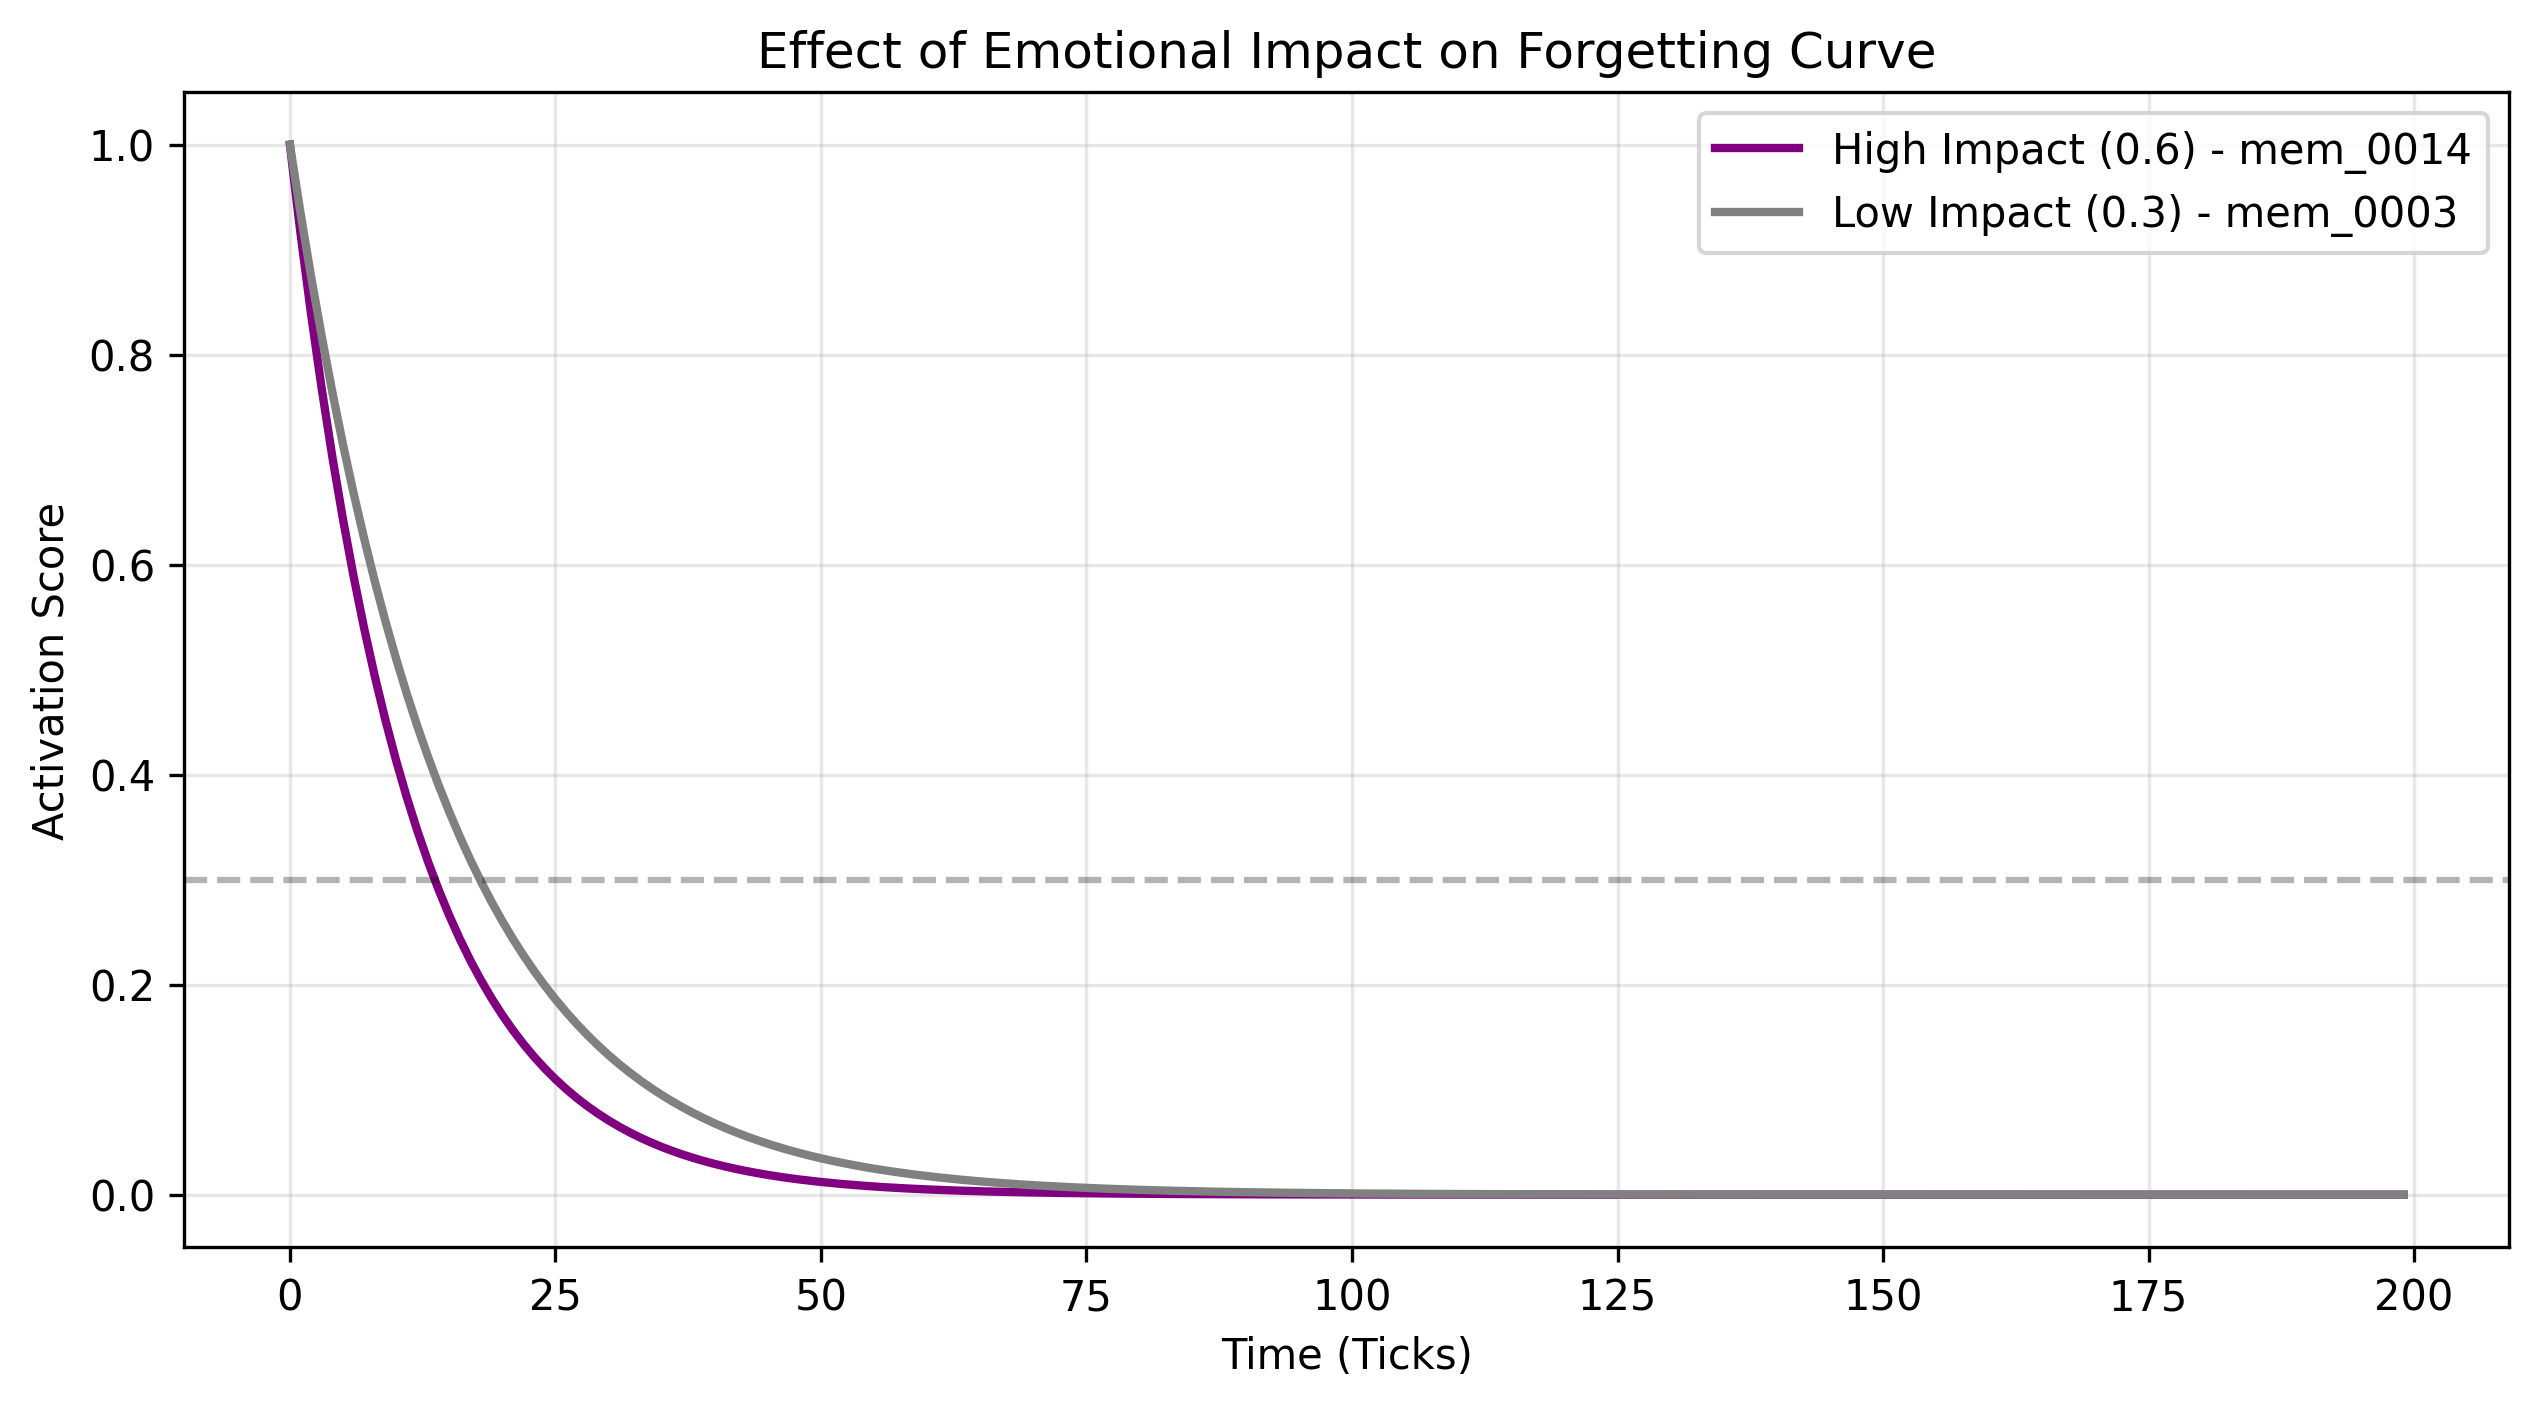
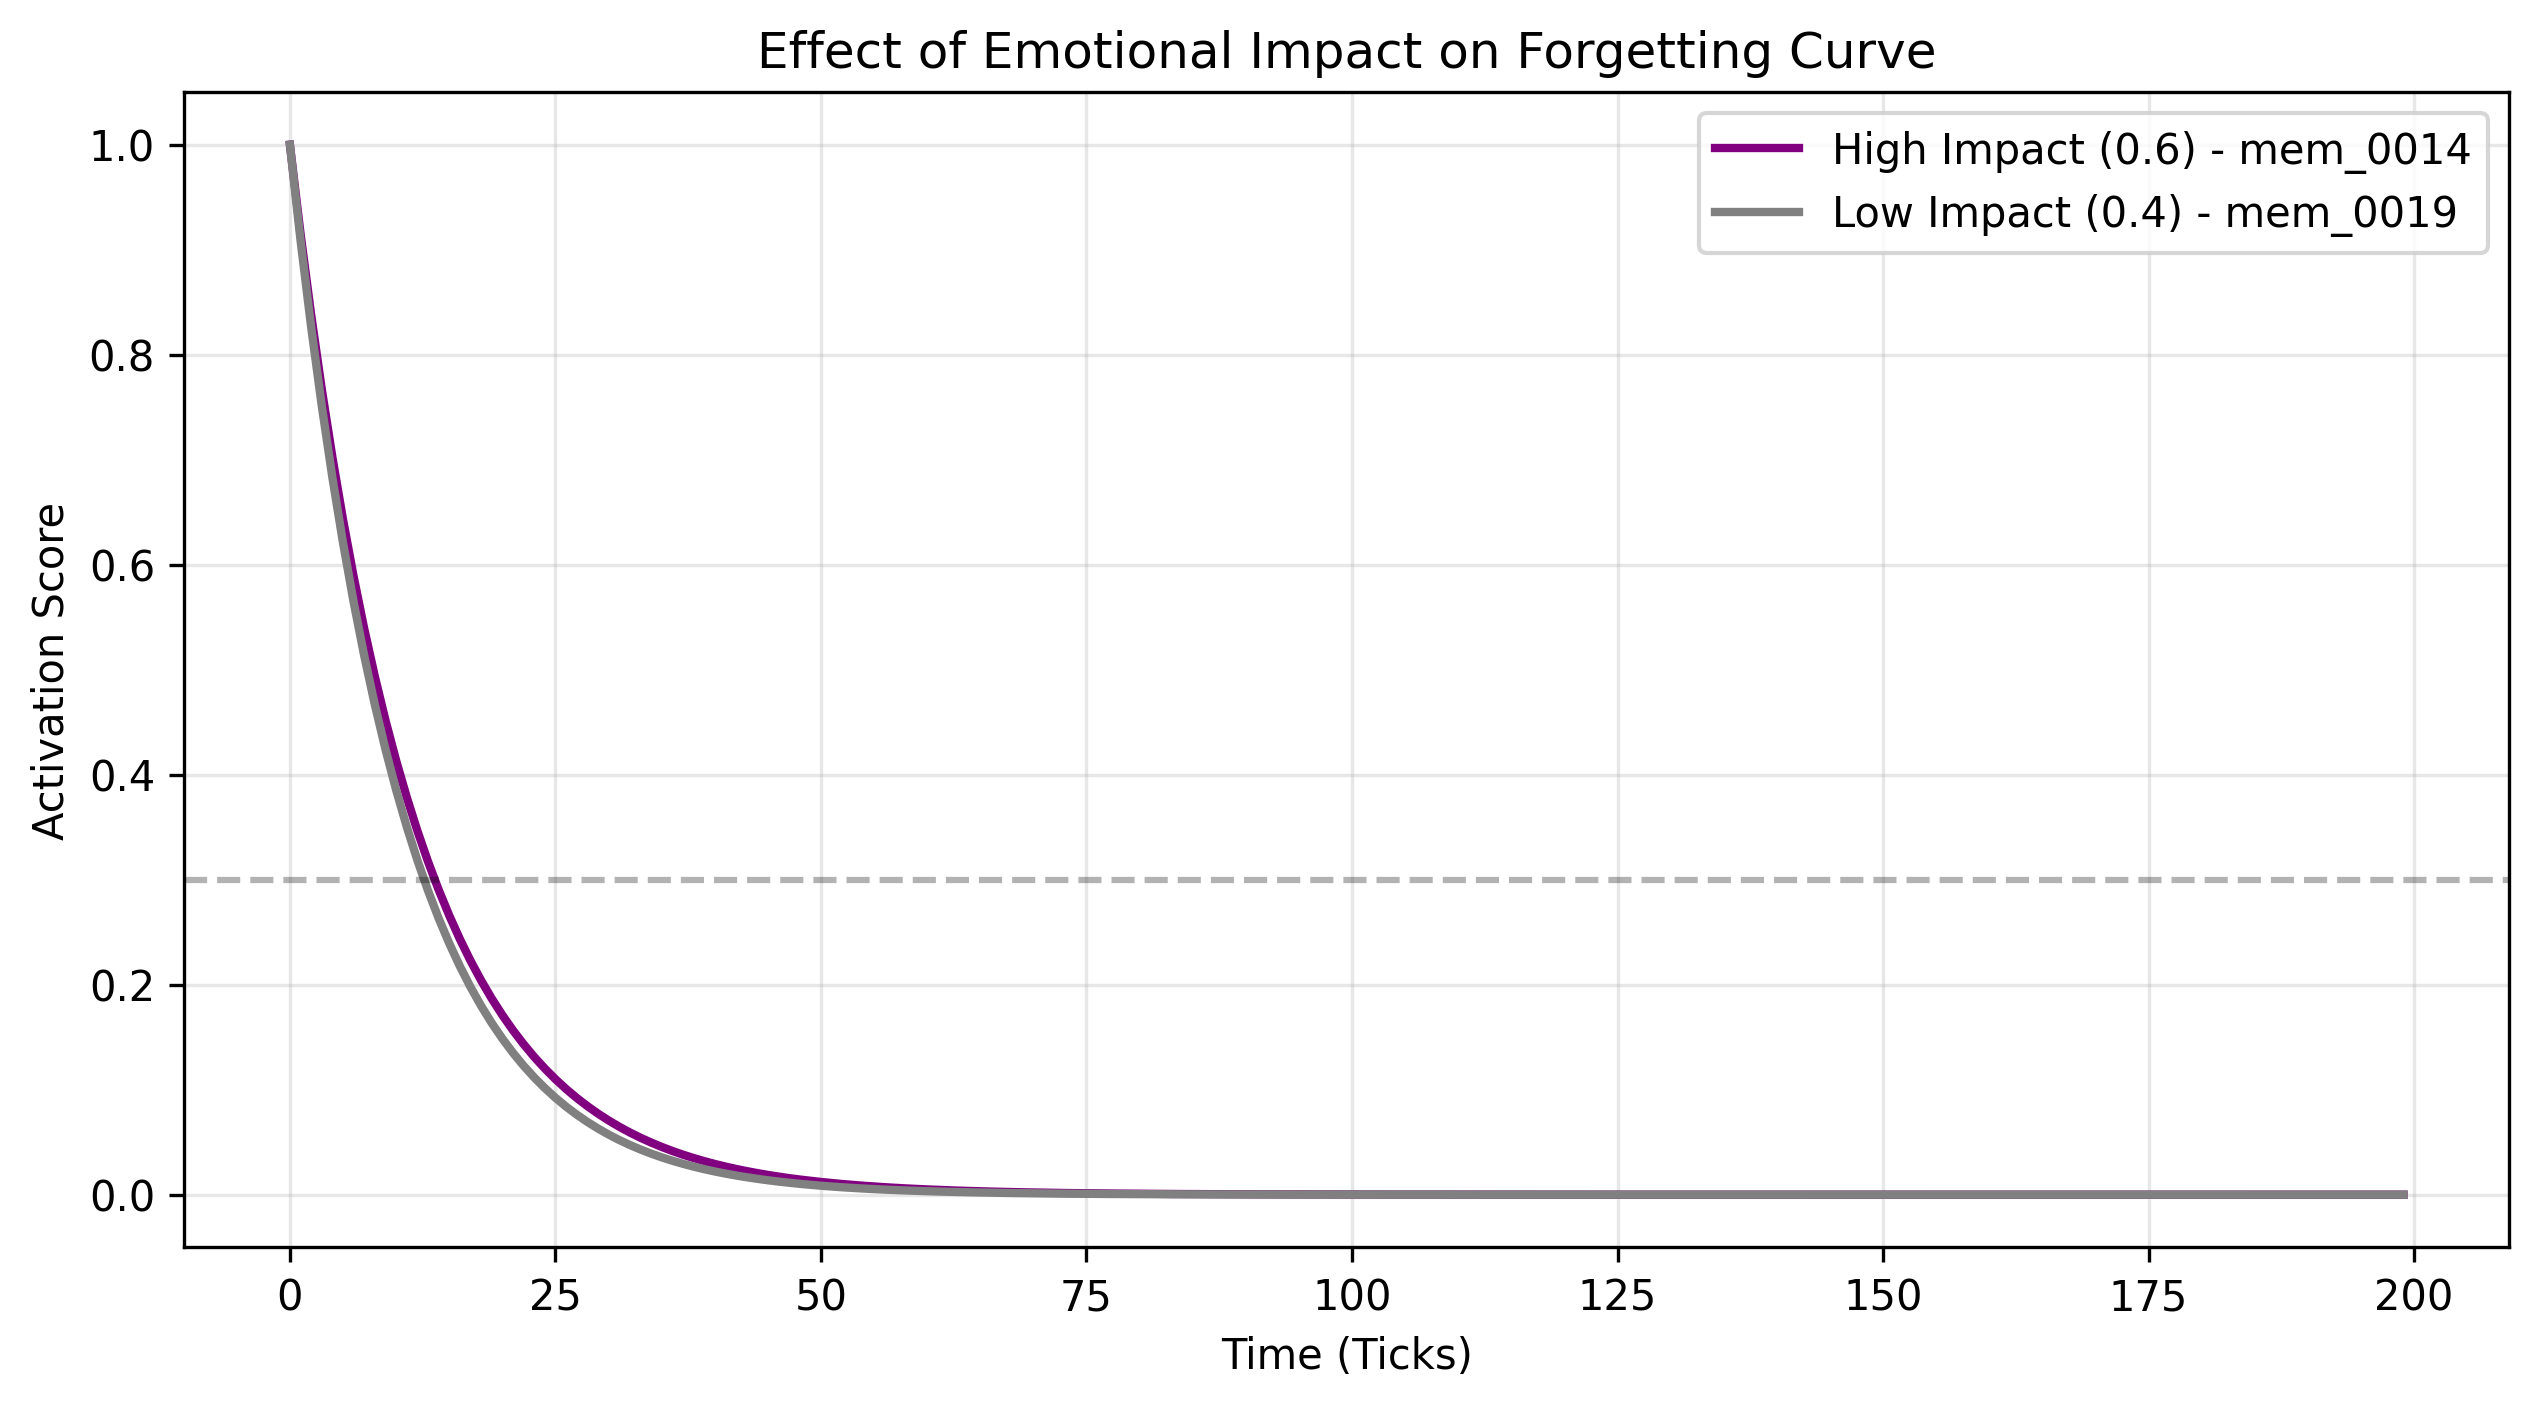
fix: Correct impact ablation graph to compare nodes of the same type

diff --git a/scripts/plot_node_trace.py b/scripts/plot_node_trace.py
@@ -58,9 +58,9 @@ def run_tracking_simulation(dataset: list[dict], total_ticks: int = 200):
     # 1. Dual axis target (will be heavily rehearsed)
     node_dual = "mem_0001"  # 한글/세종대왕 (Fact)
     
-    # 2. Impact comparison
+    # 2. Impact comparison (Use two episodes to isolate impact effect)
     node_high_impact = "mem_0014" # 첫 차 드라이브 (Episode, impact 0.6)
-    node_low_impact = "mem_0003"  # 백두산 (Fact, impact 0.3)
+    node_low_impact = "mem_0019"  # 첫 연애 편지 (Episode, impact 0.4)
     
     # 3. Type comparison
     node_fact = "mem_0006"     # 서울 (Fact, impact 0.4)
@@ -157,7 +157,7 @@ def plot_impact_comparison(history, high_id: str, low_id: str, out_dir: Path):
     
     plt.figure(figsize=(10, 5))
     plt.plot(ticks, history[high_id]["activation"], label=f'High Impact (0.6) - {high_id}', color='purple', linewidth=2)
-    plt.plot(ticks, history[low_id]["activation"], label=f'Low Impact (0.3) - {low_id}', color='gray', linewidth=2)
+    plt.plot(ticks, history[low_id]["activation"], label=f'Low Impact (0.4) - {low_id}', color='gray', linewidth=2)
     
     plt.axhline(y=0.3, color='black', linestyle='--', alpha=0.3)
     plt.title('Effect of Emotional Impact on Forgetting Curve')
@@ -225,7 +225,7 @@ def main():
     
     print(f"Generating plots in {out_dir}...")
     plot_dual_axis(history, "mem_0001", out_dir)
-    plot_impact_comparison(history, "mem_0014", "mem_0003", out_dir)
+    plot_impact_comparison(history, "mem_0014", "mem_0019", out_dir)
     plot_type_comparison(history, "mem_0006", "mem_0005", out_dir)
     plot_cascade_effect(history, "mem_0010", "mem_0002", "mem_0008", out_dir)
     
